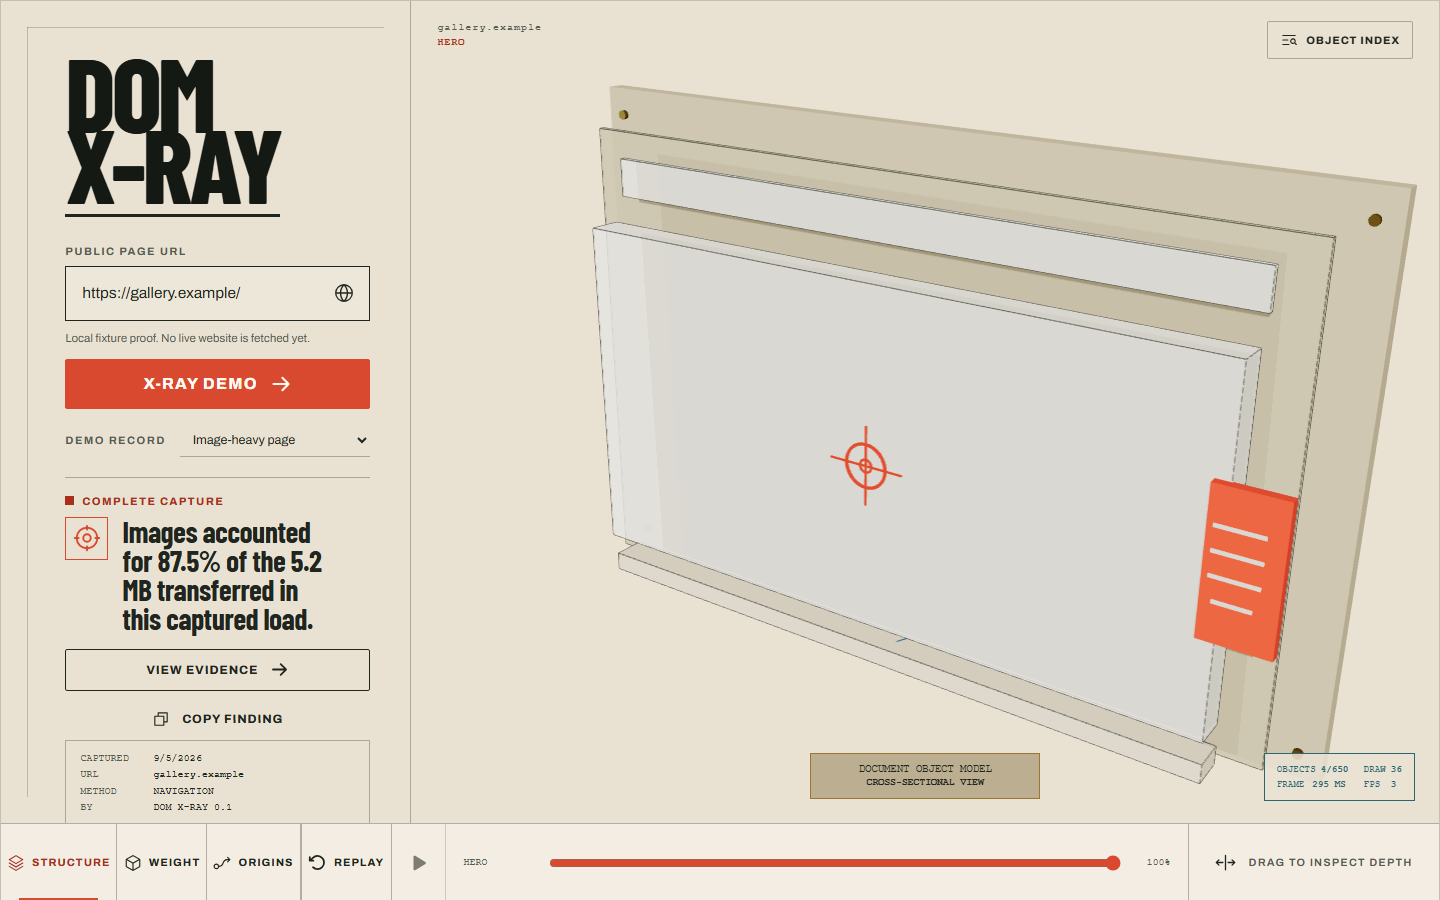
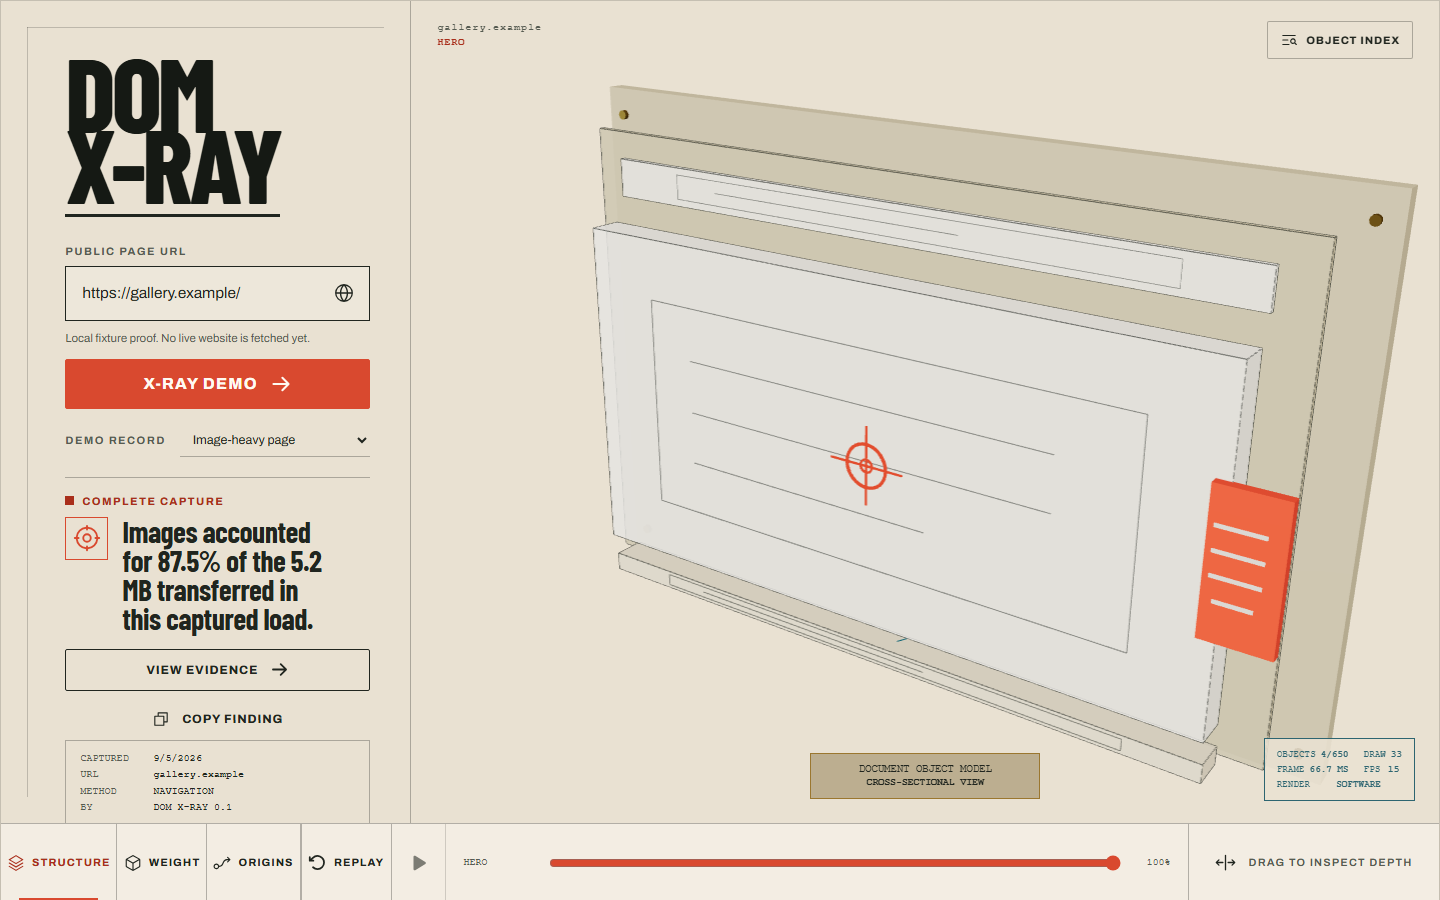
fix(viewer): close visual review findings

diff --git a/viewer/src/scene/InstrumentScene.tsx b/viewer/src/scene/InstrumentScene.tsx
@@ -18,6 +18,7 @@ export interface ScenePerformance {
   fps: number | null;
   drawCalls: number;
   triangles: number;
+  renderer: "GPU" | "SOFTWARE" | null;
 }
 
 interface InstrumentSceneProps {
@@ -46,11 +47,13 @@ function easeOutCubic(value: number) {
 }
 
 function CameraRig() {
-  const { camera, gl, invalidate } = useThree();
+  const { camera, gl, invalidate, size } = useThree();
   const controlsRef = useRef<OrbitControls | null>(null);
 
   useEffect(() => {
-    camera.position.set(9.8, 7.6, 16.5);
+    const narrow = size.width < 640;
+    if (narrow) camera.position.set(13, 10, 34);
+    else camera.position.set(9.8, 7.6, 16.5);
     camera.lookAt(0.7, -0.2, 0.5);
     camera.updateProjectionMatrix();
 
@@ -58,8 +61,8 @@ function CameraRig() {
     controls.target.set(0.7, -0.2, 0.5);
     controls.enableDamping = false;
     controls.enablePan = false;
-    controls.minDistance = 11;
-    controls.maxDistance = 25;
+    controls.minDistance = narrow ? 28 : 11;
+    controls.maxDistance = narrow ? 44 : 25;
     controls.minPolarAngle = Math.PI * 0.2;
     controls.maxPolarAngle = Math.PI * 0.48;
     controls.minAzimuthAngle = -Math.PI * 0.22;
@@ -73,7 +76,7 @@ function CameraRig() {
       controls.dispose();
       controlsRef.current = null;
     };
-  }, [camera, gl, invalidate]);
+  }, [camera, gl, invalidate, size.width]);
 
   return null;
 }
@@ -98,11 +101,16 @@ function PerformanceProbe({
     elapsed.current = 0;
     const ordered = [...samples.current].sort((left, right) => left - right);
     const median = ordered[Math.floor(ordered.length / 2)] ?? null;
+    const debug = gl.getContext().getExtension("WEBGL_debug_renderer_info");
+    const rendererName = debug
+      ? String(gl.getContext().getParameter(debug.UNMASKED_RENDERER_WEBGL))
+      : String(gl.getContext().getParameter(gl.getContext().RENDERER));
     onPerformance({
       frameMs: median === null ? null : Number(median.toFixed(1)),
       fps: median === null || median === 0 ? null : Math.round(1000 / median),
       drawCalls: gl.info.render.calls,
       triangles: gl.info.render.triangles,
+      renderer: /swiftshader|software|llvmpipe/i.test(rendererName) ? "SOFTWARE" : "GPU",
     });
   });
   return null;
@@ -202,6 +210,38 @@ function RegionPlate({
           opacity={isolated ? 0.12 : 0.6}
         />
       </lineSegments>
+      {object.documentOrder > 0 && (
+        <lineSegments position={[0, 0, 0.515]}>
+          <bufferGeometry
+            attach="geometry"
+            onUpdate={(geometry) => {
+              const halfWidth = object.sizeWorld.width * 0.39;
+              const halfHeight = object.sizeWorld.height * 0.32;
+              const rows = object.sizeWorld.height < 1 ? 1 : 3;
+              const points: number[] = [
+                -halfWidth, -halfHeight, 0,
+                halfWidth, -halfHeight, 0,
+                halfWidth, -halfHeight, 0,
+                halfWidth, halfHeight, 0,
+                halfWidth, halfHeight, 0,
+                -halfWidth, halfHeight, 0,
+                -halfWidth, halfHeight, 0,
+                -halfWidth, -halfHeight, 0,
+              ];
+              for (let row = 1; row <= rows; row += 1) {
+                const y = halfHeight - (row * (halfHeight * 2)) / (rows + 1);
+                points.push(-halfWidth * 0.82, y, 0, halfWidth * (row === rows ? 0.22 : 0.7), y, 0);
+              }
+              geometry.setAttribute("position", new THREE.Float32BufferAttribute(points, 3));
+            }}
+          />
+          <lineBasicMaterial
+            color={selected ? palette.paper : palette.graphite}
+            transparent
+            opacity={isolated ? 0.05 : 0.42}
+          />
+        </lineSegments>
+      )}
     </mesh>
   );
 }
@@ -467,7 +507,7 @@ function InspectionTable(props: Omit<InstrumentSceneProps, "onPerformance" | "pl
   );
   return (
     <group rotation={[-0.02, -0.035, -0.015]}>
-      <mesh position={[0, 0, -0.42]} receiveShadow>
+      <mesh position={[0, 0, -0.42]}>
         <boxGeometry args={[13.2, 8.55, 0.28]} />
         <meshStandardMaterial color={palette.board} roughness={0.88} />
       </mesh>
@@ -515,21 +555,14 @@ export function InstrumentScene(props: InstrumentSceneProps) {
     <Canvas
       aria-hidden="true"
       camera={{ fov: 34, near: 0.1, far: 100 }}
-      dpr={[1, 1.5]}
+      dpr={[0.75, 1]}
       frameloop={props.playing ? "always" : "demand"}
       gl={{ antialias: true, alpha: true, powerPreference: "high-performance" }}
       onPointerMissed={() => undefined}
-      shadows
     >
       <color attach="background" args={[palette.paper]} />
       <ambientLight intensity={1.7} />
-      <directionalLight
-        position={[4, 7, 11]}
-        intensity={2.5}
-        castShadow
-        shadow-mapSize-width={1024}
-        shadow-mapSize-height={1024}
-      />
+      <directionalLight position={[4, 7, 11]} intensity={2.5} />
       <directionalLight position={[-6, -2, 8]} intensity={0.65} color="#a5c1c4" />
       <CameraRig />
       <InspectionTable

diff --git a/viewer/src/app/App.tsx b/viewer/src/app/App.tsx
@@ -74,6 +74,7 @@ const emptyPerformance: ScenePerformance = {
   fps: null,
   drawCalls: 0,
   triangles: 0,
+  renderer: null,
 };
 
 export function App() {
@@ -323,6 +324,7 @@ export function App() {
           <div><dt>DRAW</dt><dd>{performance.drawCalls || "MEASURING"}</dd></div>
           <div><dt>FRAME</dt><dd>{performance.frameMs === null ? "MEASURING" : `${performance.frameMs} MS`}</dd></div>
           <div><dt>FPS</dt><dd>{performance.fps ?? "MEASURING"}</dd></div>
+          <div><dt>RENDER</dt><dd>{performance.renderer ?? "MEASURING"}</dd></div>
         </dl>
 
         <EvidenceDrawer

diff --git a/viewer/src/styles/index.css b/viewer/src/styles/index.css
@@ -177,6 +177,7 @@ button:focus-visible, input:focus-visible, select:focus-visible, summary:focus-v
   font-family: "Courier New", monospace; font-size: 0.58rem;
 }
 .performance-plate div { display: grid; grid-template-columns: auto auto; gap: 5px; }
+.performance-plate div:last-child { grid-column: 1 / -1; }
 .performance-plate dt, .performance-plate dd { margin: 0; }
 .performance-plate dd { font-weight: 700; }
 

diff --git a/DESIGN.md b/DESIGN.md
@@ -1,0 +1,201 @@
+---
+name: DOM X-Ray
+description: A measured public page load turned into an explorable architectural cutaway.
+colors:
+  paper: "#e9e1d2"
+  paper-light: "#f3ede3"
+  graphite: "#20251f"
+  soft: "#565b51"
+  inspection-red: "#d9492f"
+  inspection-red-dark: "#a92e1b"
+  external-teal: "#2d6571"
+  model-board: "#b8aa8b"
+  brass: "#9b772f"
+  line: "rgba(32, 37, 31, 0.31)"
+typography:
+  display:
+    fontFamily: "Barlow Condensed, Arial Narrow, sans-serif"
+    fontSize: "clamp(5rem, 7.25vw, 6.8rem)"
+    fontWeight: 800
+    lineHeight: 0.68
+    letterSpacing: "-0.035em"
+  headline:
+    fontFamily: "Barlow Condensed, Arial Narrow, sans-serif"
+    fontSize: "clamp(1.6rem, 2.05vw, 2.2rem)"
+    fontWeight: 700
+    lineHeight: 0.98
+    letterSpacing: "-0.018em"
+  body:
+    fontFamily: "Archivo Variable, Arial, sans-serif"
+    fontSize: "0.96rem"
+    fontWeight: 400
+    lineHeight: 1.4
+  label:
+    fontFamily: "Courier New, monospace"
+    fontSize: "0.68rem"
+    fontWeight: 700
+    lineHeight: 1.35
+    letterSpacing: "0.14em"
+rounded:
+  hairline: "0"
+  instrument: "2px"
+spacing:
+  xs: "8px"
+  sm: "12px"
+  md: "16px"
+  lg: "24px"
+  xl: "40px"
+components:
+  button-primary:
+    backgroundColor: "{colors.inspection-red}"
+    textColor: "#fffaf2"
+    rounded: "{rounded.instrument}"
+    height: "50px"
+    padding: "0 16px"
+  button-secondary:
+    backgroundColor: "transparent"
+    textColor: "{colors.graphite}"
+    rounded: "{rounded.instrument}"
+    height: "50px"
+    padding: "0 16px"
+  field-url:
+    backgroundColor: "rgba(243, 237, 227, 0.46)"
+    textColor: "{colors.graphite}"
+    rounded: "{rounded.hairline}"
+    height: "55px"
+    padding: "0 16px"
+
+# Design System: DOM X-Ray
+
+## Overview
+
+**Creative North Star: "The Measured Inspection Table"**
+
+DOM X-Ray is a public visual instrument: a captured page is laid out like a physical architectural model, then separated into structure, weight, and external-origin relationships. The visual world is warm paper and graphite with a small amount of inspection red for the consequential finding and external teal for machinery outside the page boundary. It is editorial and tactile, but remains precise enough to expose the evidence behind every emphasized object.
+
+The first viewport uses a quiet instrument column beside a dominant 3D cutaway. The left column carries identity, URL input, capture status, and one hero fact; the model owns the right side; a continuous rail anchors modes and playback at the bottom. The build is intentionally flat and material-led: no gradients, glassmorphism, neon cyberpunk, dashboard card grid, or decorative 3D particles.
+
+**Key Characteristics:**
+
+- Warm paper, board, drafting-film, graphite-line, and brass-registration materials.
+- One red finding language; teal is reserved for external-origin topology and focus.
+- A 3D architectural cutaway paired with a complete text/object-index fallback.
+- Evidence is a first-class path, not decorative annotation.
+- Deliberate reveal, bounded orbit, and reduced-motion stage stepping.
+
+## Colors
+
+The palette treats color as instrumentation: paper establishes the field, graphite carries most text and line work, red marks inspection and consequence, and teal identifies external-origin semantics and accessible focus.
+
+### Primary
+
+- **Inspection red** (`{colors.inspection-red}`): The X-RAY action, hero finding marker, selected objects, active mode indicator, and measured emphasis.
+- **Inspection red dark** (`{colors.inspection-red-dark}`): Stronger text and status contrast where red is used on paper.
+
+### Secondary
+
+- **External teal** (`{colors.external-teal}`): Third-party hubs, origin connections, selection focus rings, and external-origin semantics. It does not mean “tracker.”
+
+### Neutral
+
+- **Warm paper** (`{colors.paper}`): The global canvas and primary shell surface.
+- **Paper light** (`{colors.paper-light}`): Rail, evidence drawer, and lighter instrument surfaces.
+- **Graphite** (`{colors.graphite}`): Primary text, rules, model outlines, and dark evidence blocks.
+- **Soft graphite** (`{colors.soft}`): Supporting labels and secondary copy.
+- **Model board** (`{colors.model-board}`): The physical inspection-table plinth and model caption.
+- **Brass** (`{colors.brass}`): Registration hardware and model caption borders.
+- **Instrument line** (`{colors.line}`): Low-contrast dividers and drafting rules.
+
+**The Sparse Accent Rule.** Red and teal are measurement signals. Keep them rare and purposeful; do not turn the whole surface into an accent field.
+
+## Typography
+
+**Display Font:** Barlow Condensed (with Arial Narrow, sans-serif fallback)
+
+**Body Font:** Archivo Variable (with Arial, sans-serif fallback)
+
+**Label/Mono Font:** Courier New, monospace
+
+**Character:** Barlow Condensed gives the wordmark and hero finding a tall, compressed editorial voice. Archivo keeps controls and supporting copy legible, while Courier New makes capture metadata, stage IDs, and raw evidence feel like instrument readouts.
+
+### Hierarchy
+
+- **Display** (800, `clamp(5rem, 7.25vw, 6.8rem)`, `0.68`): The stacked DOM X-RAY wordmark, with tight negative tracking and a graphite underline.
+- **Headline** (700, `clamp(1.6rem, 2.05vw, 2.2rem)`, `0.98`): The single dynamic hero statement in the instrument column and evidence drawer headings.
+- **Title** (750, approximately `0.67rem`–`0.76rem`, normal): Instrument actions, mode labels, and compact control names.
+- **Body** (400, `0.96rem`, `1.4`): URL input and explanatory copy; keep supporting text short and readable.
+- **Label** (700, `0.68rem`, `0.14em`, uppercase): Measurement labels, status, stage IDs, and provenance metadata.
+
+**The One Finding Rule.** The title is the strongest typographic object; the dynamic hero statement is second. Supporting metrics must not compete with the causal statement.
+
+## Layout
+
+The desktop shell is a 28/72 editorial split: the instrument column is `clamp(330px, 28.5vw, 430px)` and the model stage owns the remaining space. The main viewport occupies `calc(100dvh - 78px)` with a continuous `78px` instrument rail across the bottom. The left column is vertically scrollable and uses inset drafting rules; the model stage is clipped and visually dominant rather than surrounded by cards.
+
+At widths below `1080px`, the column settles to `320px` and secondary capture/performance plates are hidden. At `800px` and below, the shell becomes a vertical composition: identity and hero first, a minimum `560px` model stage second, then mode/playback rows and the evidence surface. The evidence drawer is a right-side panel up to `min(410px, 54vw)` on desktop and a bottom sheet up to `min(72dvh, 650px)` on mobile. This preserves the hero and model together before exposing deeper evidence.
+
+## Elevation & Depth
+
+Depth is conveyed primarily through tonal layering, translucent drafting-film planes, board material, outlines, brass registration details, and physically separated scene objects. The base shell is flat and paper-like. The only meaningful UI shadow is the evidence drawer's ambient offset (`-18px 10px 42px`); controls use borders and tonal change instead of floating-card elevation.
+
+**The Flat Instrument Rule.** Surfaces rest on the paper field. Physical depth belongs to the cutaway model and evidence drawer, not to a dashboard-like stack of cards.
+
+## Shapes
+
+The form language is rectangular and lightly mechanical. Most controls use a restrained `2px` corner radius; fields and select controls can be square. One-pixel graphite or low-contrast rules establish boundaries, while the model uses flat plates, lightly chamfered-looking separations, thin seams, cylinders, rings, and registration hardware. There are no inflated pills, rounded glass panels, or soft blob silhouettes.
+
+## Components
+
+### Buttons
+
+- **Shape:** Rectangular instrument controls with a `2px` radius and a minimum `50px` primary action height.
+- **Primary:** Inspection red fill, light text, bold uppercase label with moderate tracking, and a directional arrow. Hover deepens the red and lifts the button by `1px`.
+- **Secondary / Ghost:** Transparent paper surfaces with graphite border and text; hover inverts to graphite with light text. Evidence, copy, drawer, and icon actions share this language.
+- **Focus:** A visible `3px` teal outline with `3px` offset is the keyboard focus treatment.
+
+### Inputs / Fields
+
+- **Style:** The URL field is a `55px` tall, square-cornered, graphite-stroked field with a lightly translucent paper-light fill and a globe icon.
+- **Focus:** Teal border plus an inset teal keyline.
+- **Error / Disabled:** Error uses inspection-red-dark; disabled controls lower opacity to `0.56` and retain the instrument geometry.
+
+### Navigation / Instrument Rail
+
+- **Style:** One continuous paper-light rail across the bottom, divided by vertical rules rather than individual cards.
+- **Modes:** Structure, Weight, and Origins are text-plus-icon controls. The active mode uses red text and a red underline.
+- **Playback:** Replay, play/pause or reduced-motion “NEXT STAGE,” a red-accented timeline, and an orbit hint for “DRAG TO INSPECT DEPTH.”
+- **Responsive:** The rail becomes stacked full-width rows on phone layouts.
+
+### Cards / Containers
+
+- **Style:** Do not use generic cards. The capture plate, performance plate, model caption, and evidence drawer are named instrument surfaces with thin rules, metadata typography, and clear provenance purpose.
+- **Capture plate:** Compact Courier New metadata block for captured date, URL, method, and viewer version.
+- **Performance plate:** Teal-outlined readout for object budget, draw calls, frame time, FPS, and renderer.
+
+### Evidence Drawer
+
+- **Character:** A provenance ledger attached to the model edge, not a separate analytics page.
+- **Content:** Selected object label, selectable ID, raw summary fields, isolation action, and expandable raw-source records.
+- **Behavior:** Opens from selection, focuses its close control, supports isolate/show-complete-model, and becomes a bottom sheet on mobile.
+
+### Signature Component: Architectural Cutaway
+
+The 3D scene is a bounded inspection table: a board plinth, layered region plates, page-level bus, external-origin hubs, measured connections, selection reticle, and a brass model caption. Structure, Weight, and Origins alter emphasis and separation while consuming the same scene manifest. The text “MODEL INDEX” path exposes the same selectable objects and evidence when WebGL is unavailable or intentionally bypassed.
+
+## Do's and Don'ts
+
+### Do:
+
+- **Do** preserve the warm paper / graphite field and use red only for inspection findings, selection, and active state.
+- **Do** keep the 28/72 split and the model as the dominant visual subject on desktop.
+- **Do** make every emphasized object traceable to raw evidence and its mapping rule.
+- **Do** retain the hero statement and evidence in reduced-motion, text-only, and no-WebGL paths.
+- **Do** use thin rules, board/drafting-film layering, brass registration, and compact mono readouts to create depth.
+
+### Don't:
+
+- **Don't** turn the viewer into a scorecard, bento dashboard, generic monitoring workspace, or roast interface.
+- **Don't** use gradients, glassmorphism, neon cyberpunk, ambient particles, liquid blobs, perpetual bobbing, or decorative wire motion.
+- **Don't** make third-party origin teal imply “tracker”; preserve the external-origin meaning.
+- **Don't** replace the continuous bottom rail with a row of floating cards.
+- **Don't** let a spectacular 3D object outrun its evidence, or let essential facts depend on WebGL.
